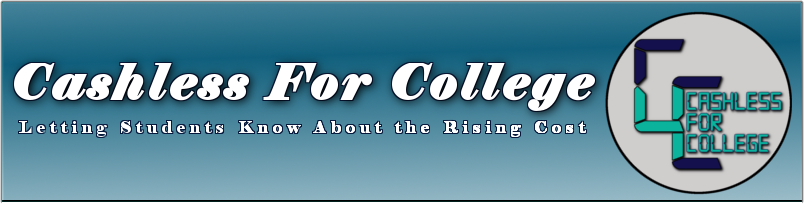
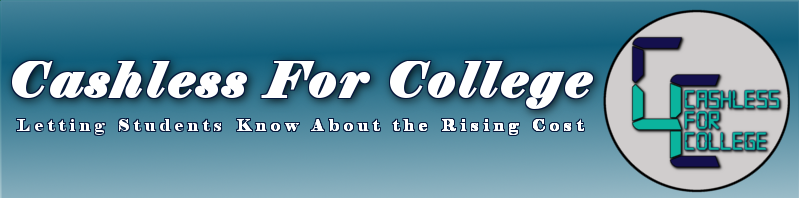
Update
Updated Index + Images

Changed region(s): [[0.0, 0.0, 1.0, 1.0], [0.3304, 0.303, 0.3905, 0.3333]]

diff --git a/index.html b/index.html
@@ -2,54 +2,92 @@
 <html>
 
     <head>
-	<link rel="stylesheet" href="boilerplate.css">
 	<link rel="stylesheet" href="index.css">
-	<meta charset="utf-8">
-	<meta name="viewport" content="initial-scale = 1.0,maximum-scale = 1.0">
     </head>
     <body>
+        <!--Foreground-->
+        <div id = "divForeground">
 
-    <div id="primaryContainer" class="primaryContainer clearfix">
-        <div id="box" class="clearfix">
-            <a id="box1" href="#" class="clearfix">
-                <p id="text">
-                Cashless For College
-                </p>
-                <p id="text1">
-                Letting students know about the rising costs.
-                </p>
-                <img id="image" src="img/Logo.png" class="image" />
-            </a>
-            <div id="box2" class="clearfix">
-              <table id="navBar">
-    <tr>
-        <td>
-            <a class="selected" href="index.html">Home</a>
-        </td>
-        <td>
-            <a href="#">Fixes to the Problem</a>
-        </td>
-        <td>
-            <a href="#">About Us</a>
-        </td>
-        <td>
-            <a href="#">Contact Usss</a>
-        </td>
-    </tr>
-</table>
+            <!--Banner-->
+            <div id = "banner">
+                <img id = "imgBanner" src="img/banner.png" />
             </div>
-            <div id="box3" class="clearfix">
+
+            <!--Table/navBar-->
+            <div id = "divNavigation">
+                <hr id = "navHr" />
+
+                <table id = "navBar">
+                    <tr>
+                        <td>
+                            <a class = "selected" href = "index.html">Home</a>
+                        </td>
+
+                        <td>
+                            <a href ="fix.html">Fixing the Problem</a>
+                        </td>
+
+                        <td>
+                            <a href = "about.html">About Us</a>
+                        </td>
+
+                        <td>
+                            <a href = "contact.html">Contact Us</a>
+                        </td>
+                    </tr>
+                </table>
+
+                <hr id = "navHr" />
             </div>
-            <p id="text2">
-            &copy; 2015 C4C
-            </p>
+
+            <!--Content-->
+            <div id = "divContent">
+                <h1 id = "title">Why the Cost is Going Up</h1>
+
+                <hr id = "line" />
+
+                <div id = "content">
+                    <p>
+                        <img id = "smallImage" src = "img/homeimg.png"/>
+                        Over the course of the last 30 years, tuition costs have skyrocketed on levels unseen by even the worst levels of inflation. In the early 1970s, the average cost of a private, four year university would have been around $1800, in contrast, the tuition of a private, four year university today is roughly &#36;32,000. The figure calculated for the early 1970s has already taken the difference in the value of the US dollar back then and the value now, however, this does not dissuade the fact that tuition has increased over 1600&#37; in the last 40 years. The cost of the average public, four year university has gone up over 1860&#37; from being less than &#36;500 to over &#36;9,800. The amount that institutions are spending on services for students and teaching in such an exponential manner, however, that means the rising price tag for students is increasing for a different reason. One of the most prominent reasons for this blasphemous increase is claimed to be budget cuts in state funding for public institutions and the shrinking amount of subsidies given to private institutions. If this is the cause, then these budget cuts make institutions push a greater portion of the cost for education onto students to make up for the difference. Another reason that has been linked to the rising cost is the growth of administration in institutions. A study done by a professor at California Polytechnic University shows that from 1975 to 2008, the total number of faculty members increased from 11, 614 to 12,019. However, the professor also found that between this period of time, the number of administrators nearly quadrupled from 3,800 to 12,183. The salaries of these administrative figures are shown to be trending upward toward seven-figures for a high-ranking university and still increasing as the years past. One more claim is that college spending is the reason why the cost of higher education is rising. Research has shown that a good portion of one&#39;s tuition goes towards research and &#34;other enterprises.&#34; Though spending money on research is not necessarily a bad thing, but these &#34;other enterprises&#34; take up a good portion of one&#39;s tuition and has been increasing at an increasing rate. So, there is no pinpoint reason for the expotential growth of tuition, but rather multiple reasons, theories, and claims on why it is increasing.
+                    </p>
+                </div>
+            </div>
+
+            <!--Graphic-->
+            <div id = "divContent">
+                <h1 id = "title" style = "margin-top: 20px;">The Rising Trend</h1>
+                <img id = "graphics" src="img/trend.png" />
+            </div>
+
+            <!--Additional Info-->
+            <div id = "divContent">
+                <p id = "title" style = "font-size: 25px">Sources</p>
+                <ul id = "source">
+                    <!--Source 1-->
+                    <li>
+                        <a href = "http://www.nytimes.com/2015/04/05/opinion/sunday/the-real-reason-college-tuition-costs-so-much.html?_r=0">
+                            New York times Article
+                        </a>
+                    </li>
+
+                    <!--Source 2-->
+                    <li>
+                        <a href = "http://www.cnbc.com/2015/06/16/why-college-costs-are-so-high-and-rising.html">
+                            CNBC Article
+                        </a>
+                    </li>
+
+                    <!--Source 3-->
+                    <li>
+                        <a href = "http://www.npr.org/2014/03/18/290868013/how-the-cost-of-college-went-from-affordable-to-sky-high">
+                            NPR Article
+                        </a>
+                    </li>
+                </ul>
+            </div>
+
+            <p id = "copyright">&#169; 2015 Cashless for College</p>
         </div>
-        <p id="text3">
-        Text
-        </p>
-        <p id="text4">
-        Text
-        </p>
-    </div>
     </body>
 </html>
